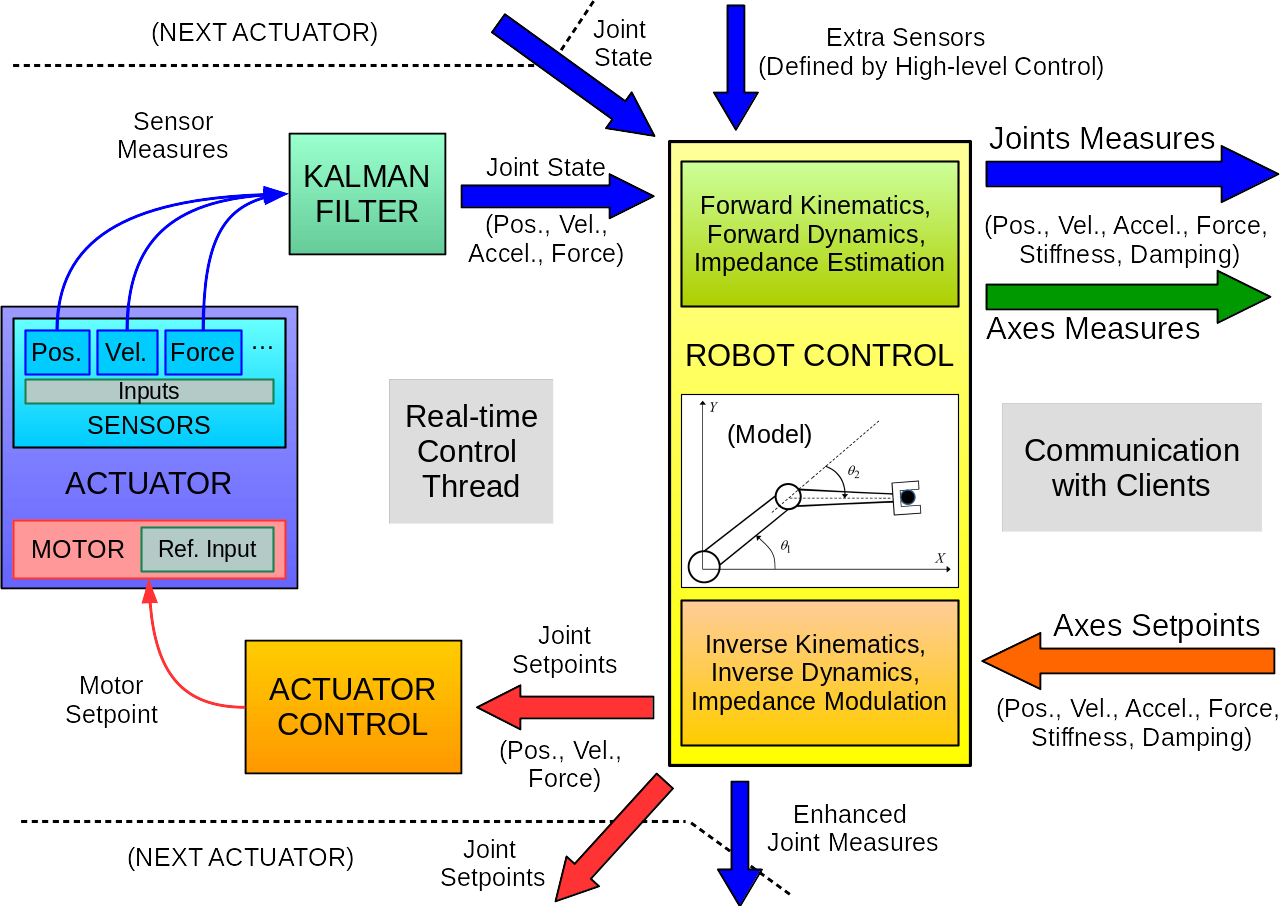
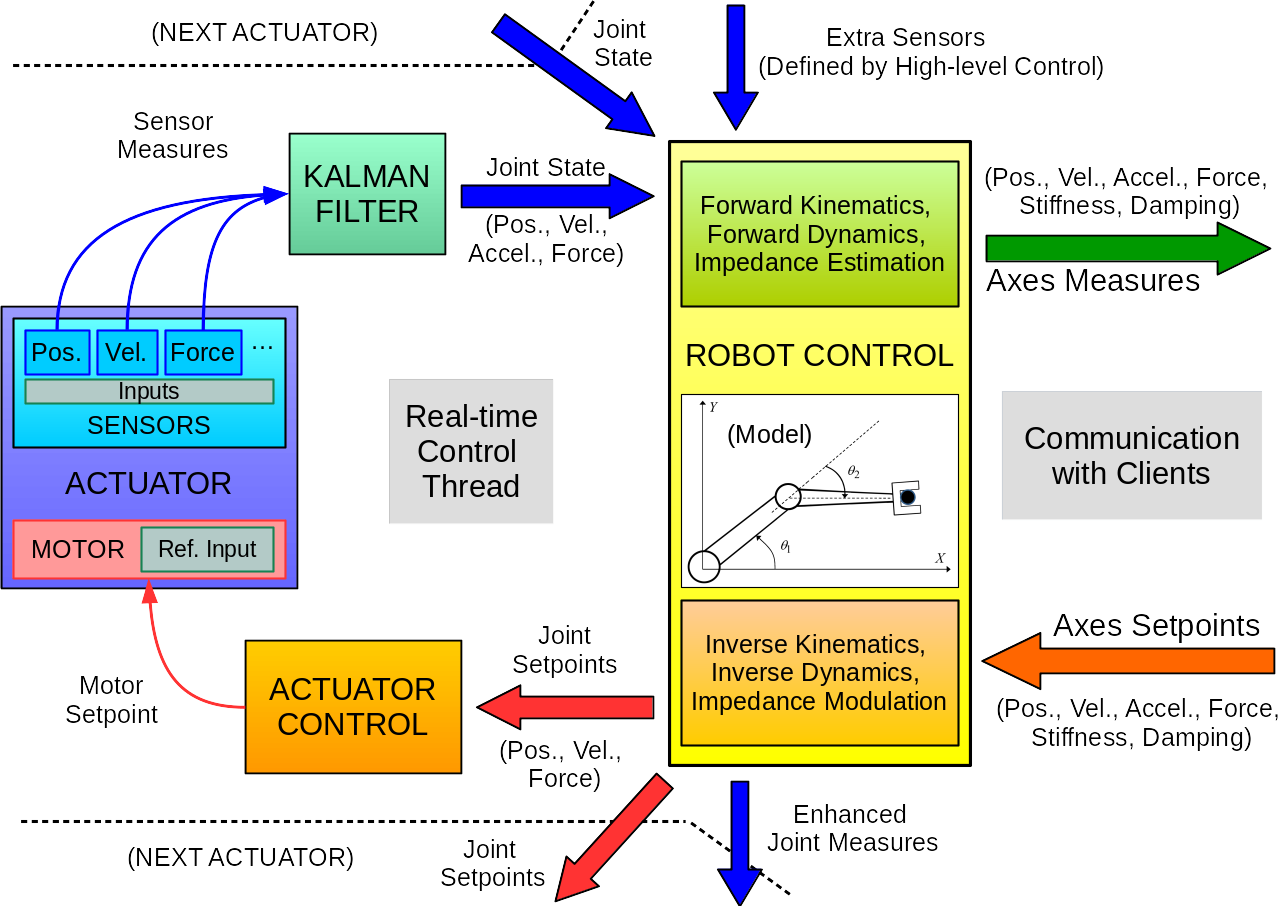
Update README

Changed region(s): [[0.75, 0.1236, 1.0, 0.3709], [0.7812, 0.4327, 1.0, 0.5872]]

diff --git a/README.md b/README.md
@@ -74,7 +74,7 @@ With that structure, a multi-level control process can interact with external cl
 
 ## Communication Interfaces
 
-**RobotSystem-Lite** client applications communicate with it through [**IP** connections](https://en.wikipedia.org/wiki/Network_socket), with fixed-size **512 bytes** messages. Depending on the type of message sent or received, a specific data format and underlying transport ([TCP](https://pt.wikipedia.org/wiki/Transmission_Control_Protocol) or [UDP](https://pt.wikipedia.org/wiki/User_Datagram_Protocol)) must be used.
+**RobotSystem-Lite** client applications communicate with it through a provided [IPC](https://en.wikipedia.org/wiki/Inter-process_communication) implementation (based on methods like [shared memory](https://en.wikipedia.org/wiki/Shared_memory), [**IP** sockets](https://en.wikipedia.org/wiki/Network_socket), [nanomsg](https://github.com/nanomsg/nng) or [ROS2](https://github.com/ros2/rcl)), with fixed-size **512 bytes** messages. Depending on the type of message sent or received, a specific data format and underlying transport/protocol is used.
 
 <p align="center">
   <img src="https://raw.githubusercontent.com/EESC-MKGroup/RobotSystem-Lite/master/docs/img/robot_communications.png" width="600"/>
@@ -82,11 +82,11 @@ With that structure, a multi-level control process can interact with external cl
 
 ### Request/Reply messages
 
-Messages requesting state changes or information about the robot are sent by clients occasionally and their arrival should be as guaranteed as possible. Therefore, these messages are transmitted to the server through **TCP** sockets, on port **50000**. Possible messages (and corresponding reply values) are listed in a [separate header](https://eesc-mkgroup.github.io/RobotSystem-Lite/shared__robot__control_8h.html)
+Messages requesting state changes or information about the robot are sent by clients occasionally and their arrival should be as guaranteed as possible. Therefore, these messages are transmitted using a [request-reply](https://en.wikipedia.org/wiki/Request%E2%80%93response) protocol. Possible messages (and corresponding reply values) are listed in a [separate header](https://eesc-mkgroup.github.io/RobotSystem-Lite/shared__robot__control_8h.html)
 
 ### Joint/Axis update messages
 
-Messages transporting online updates for robot degrees-of-freedom ([axes or joints](https://github.com/EESC-MKGroup/Robot-Control-Interface#the-jointaxis-rationale)) control variables (measurements or setpoints) should arrive as quickly as possible, and there is no advantage in resending lost packets, as their validity is short in time. Thereby, these messages are exchanged with **RobotSystem-Lite** through lower-latency **UDP** sockets, on port **50001** for **axes** and **50002** for **joints**, in a [defined format](https://eesc-mkgroup.github.io/RobotSystem-Lite/shared__dof__variables_8h.html).
+Messages transporting online updates for robot degrees-of-freedom ([axes (not joints)](https://github.com/EESC-MKGroup/Robot-Control-Interface#the-jointaxis-rationale)) control variables (measurements or setpoints) should arrive as quickly as possible, and there is no advantage in resending lost packets, as their validity is short in time. Thereby, these messages are exchanged with **RobotSystem-Lite** through lower-latency and scalable [publisher-subscriber](https://en.wikipedia.org/wiki/Publish%E2%80%93subscribe_pattern) connections (possibly with [broadcast](https://en.wikipedia.org/wiki/Multicast)), in a [defined format](https://eesc-mkgroup.github.io/RobotSystem-Lite/shared__dof__variables_8h.html).
 
 ### Control variables conventions
 
